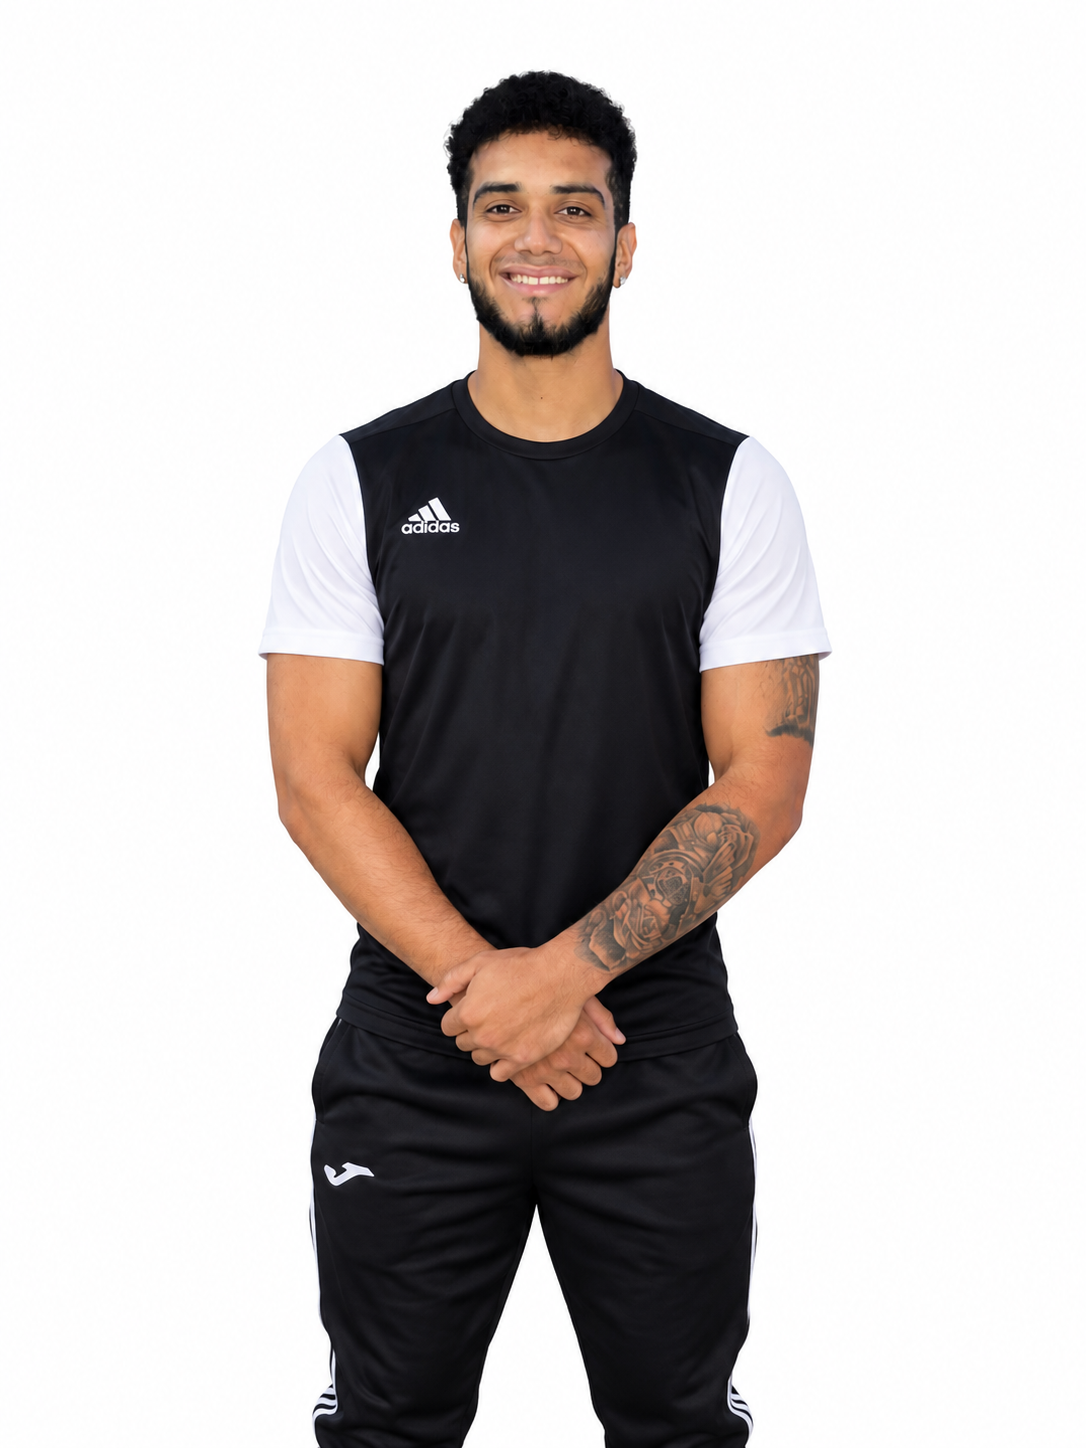
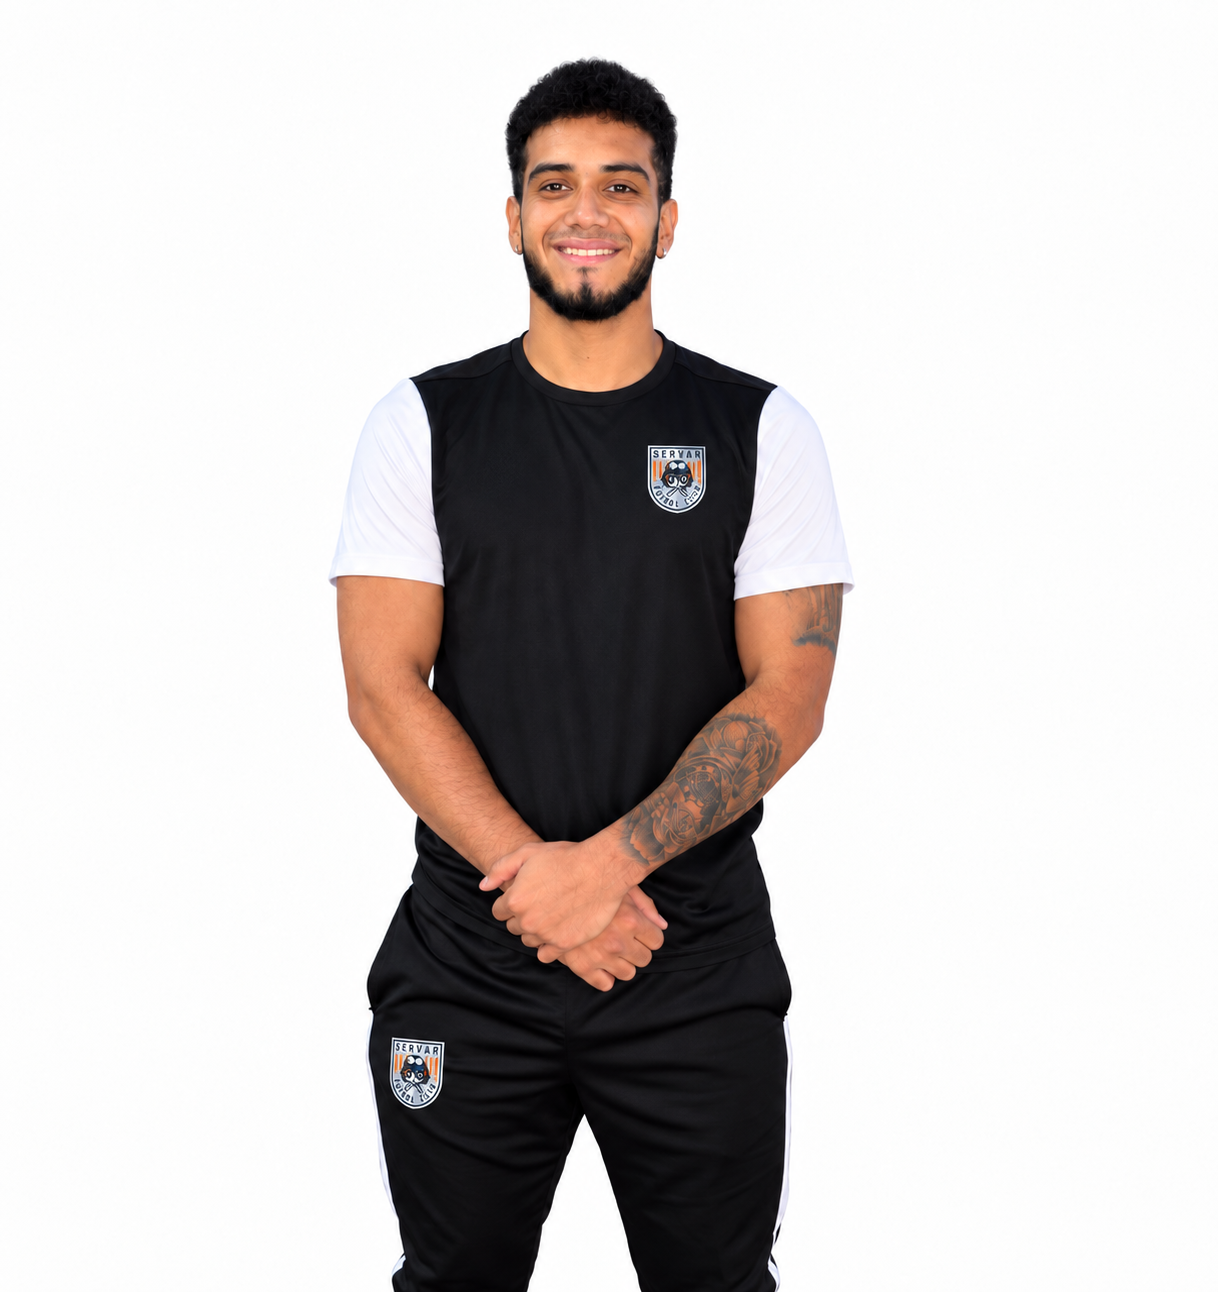
Añade al Director Técnico y ajusta la ficha del cuerpo técnico
- Añade a Jhon Hayder (Director Técnico) a la plantilla y suma las fotos que faltaban (Brayan Valencia, Keller Zambrano, Federico Meñe).
- Oculta el "#" y la fila "Pierna hábil" en las tarjetas del cuerpo técnico (sin dorsal numérico), ya que no les aplica.
- Corrige el enlace "Ver en Instagram" de los partidos de visitante para que use el mismo icono de ubicación que "Cómo llegar".
- Ajusta el reverso de la tarjeta de jugador para que un texto largo baje de línea de forma prolija en vez de verse descuadrado.

diff --git a/js/main.js b/js/main.js
@@ -105,6 +105,14 @@ function renderJugadores() {
       ? `<span class="player-card__badge">${jugador.estado}</span>`
       : '';
 
+    // El cuerpo técnico no usa número de camiseta (dorsal numérico) — a ellos
+    // no les mostramos el "#" ni la fila de "Pierna hábil".
+    const tieneDorsal = typeof jugador.dorsal === 'number';
+    const dorsalHTML = tieneDorsal ? `<span>#${jugador.dorsal}</span>` : '';
+    const piernaHabilHTML = tieneDorsal
+      ? `<div class="player-card__stat"><span>Pierna hábil</span><span>${jugador.piernaHabil}</span></div>`
+      : '';
+
     card.innerHTML = `
       <div class="player-card__inner">
         <div class="player-card__face player-card__front">
@@ -125,7 +133,7 @@ function renderJugadores() {
             <div class="player-card__name">${jugador.nombre}</div>
             <div class="player-card__meta">
               <span>${jugador.posicion}</span>
-              <span>#${jugador.dorsal}</span>
+              ${dorsalHTML}
             </div>
           </div>
         </div>
@@ -133,7 +141,7 @@ function renderJugadores() {
           <div class="player-card__back-name">${jugador.nombre}</div>
           <div class="player-card__stat"><span>Posición</span><span>${jugador.posicion}</span></div>
           <div class="player-card__stat"><span>Altura</span><span>${jugador.altura}</span></div>
-          <div class="player-card__stat"><span>Pierna hábil</span><span>${jugador.piernaHabil}</span></div>
+          ${piernaHabilHTML}
           <div class="player-card__stat"><span>Edad</span><span>${calcularEdad(jugador.fechaNacimiento)} años</span></div>
           <div class="player-card__stat"><span>País</span><span>${jugador.nacionalidad}</span></div>
           <div class="player-card__back-hint">Toca de nuevo para volver</div>
@@ -208,7 +216,7 @@ function renderCalendario() {
          </a>`;
     } else if (partido.lugar !== 'Local' && typeof redesSociales !== 'undefined') {
       enlaceCampo = `<a class="match-card__venue" href="${redesSociales.instagram}" target="_blank" rel="noopener">
-           <svg viewBox="0 0 24 24" fill="none"><rect x="2" y="2" width="20" height="20" rx="5" stroke="currentColor" stroke-width="1.8"/><circle cx="12" cy="12" r="4.2" stroke="currentColor" stroke-width="1.8"/><circle cx="17.3" cy="6.7" r="1.1" fill="currentColor"/></svg>
+           <svg viewBox="0 0 24 24" fill="none"><path d="M12 21s-7-6.2-7-11.5A7 7 0 0 1 19 9.5C19 14.8 12 21 12 21z" stroke="currentColor" stroke-width="1.8"/><circle cx="12" cy="9.5" r="2.3" stroke="currentColor" stroke-width="1.8"/></svg>
            Ver en Instagram
          </a>`;
     }

diff --git a/js/datos.js b/js/datos.js
@@ -68,26 +68,27 @@
 const jugadores = [
   {
     // TÉCNICO — no es jugador, no tiene dorsal. Reemplaza el nombre cuando lo tengas.
+    nombre: "Jhon Hayder",
+    dorsal: "",
+    posicion: "Director T.",
+    piernaHabil: "Izquierda",
+    altura: "1.69m",
+    fechaNacimiento: "1986-02-11",
+    nacionalidad: "Colombia",
+    foto: "img/jugadores/Jhon-Hayder.jpg",
+    estado: "Director Tecnico"
+  },
+  {
+    // TÉCNICO — no es jugador, no tiene dorsal. Reemplaza el nombre cuando lo tengas.
     nombre: "Julián Sanclemente",
-    dorsal: "DT",
+    dorsal: "",
     posicion: "Entrenador",
     piernaHabil: "Izquierda",
     altura: "1.78m",
     fechaNacimiento: "1990-01-01",
     nacionalidad: "Colombia",
-    foto: "img/jugadores/JULIAN-SANCLEMENTE.JPG",
-    estado: "D. Técnico"
-  },
-  {
-    nombre: "Juan Bocanegra",
-    dorsal: 9,
-    posicion: "Delantero",
-    piernaHabil: "Izquierda",
-    altura: "1.75m",
-    fechaNacimiento: "1987-01-27",
-    nacionalidad: "Colombia",
-    foto: "img/jugadores/9-Juan-Bocanegra.jpg",
-    estado: "Renovación"
+    foto: "img/jugadores/Julian-Sanclemente.jpg",
+    estado: "Preparador Físico"
   },
   {
     nombre: "Miguel Escobar",
@@ -98,6 +99,17 @@ const jugadores = [
     fechaNacimiento: "1993-07-03",
     nacionalidad: "Colombia",
     foto: "img/jugadores/10-Miguel-Escobar.jpg",
+    estado: "Renovación"
+  },
+  {
+    nombre: "Juan Bocanegra",
+    dorsal: 9,
+    posicion: "Delantero",
+    piernaHabil: "Izquierda",
+    altura: "1.75m",
+    fechaNacimiento: "1987-01-27",
+    nacionalidad: "Colombia",
+    foto: "img/jugadores/9-Juan-Bocanegra.jpg",
     estado: "Renovación"
   },
   {

diff --git a/css/style.css b/css/style.css
@@ -522,15 +522,15 @@ button { font: inherit; cursor: pointer; border: none; background: none; color: 
 
 .player-card__stat {
   display: flex;
-  flex-wrap: wrap;
-  gap: 2px 10px;
+  justify-content: space-between;
+  gap: 10px;
   padding: 9px 0;
   border-bottom: 1px solid rgba(10,27,66,0.08);
   font-size: 0.92rem;
 }
 
 .player-card__stat span:first-child { color: #6B7590; flex-shrink: 0; }
-.player-card__stat span:last-child { font-weight: 600; margin-left: auto; text-align: right; }
+.player-card__stat span:last-child { font-weight: 600; text-align: right; }
 
 .player-card__back-hint {
   margin-top: auto;
